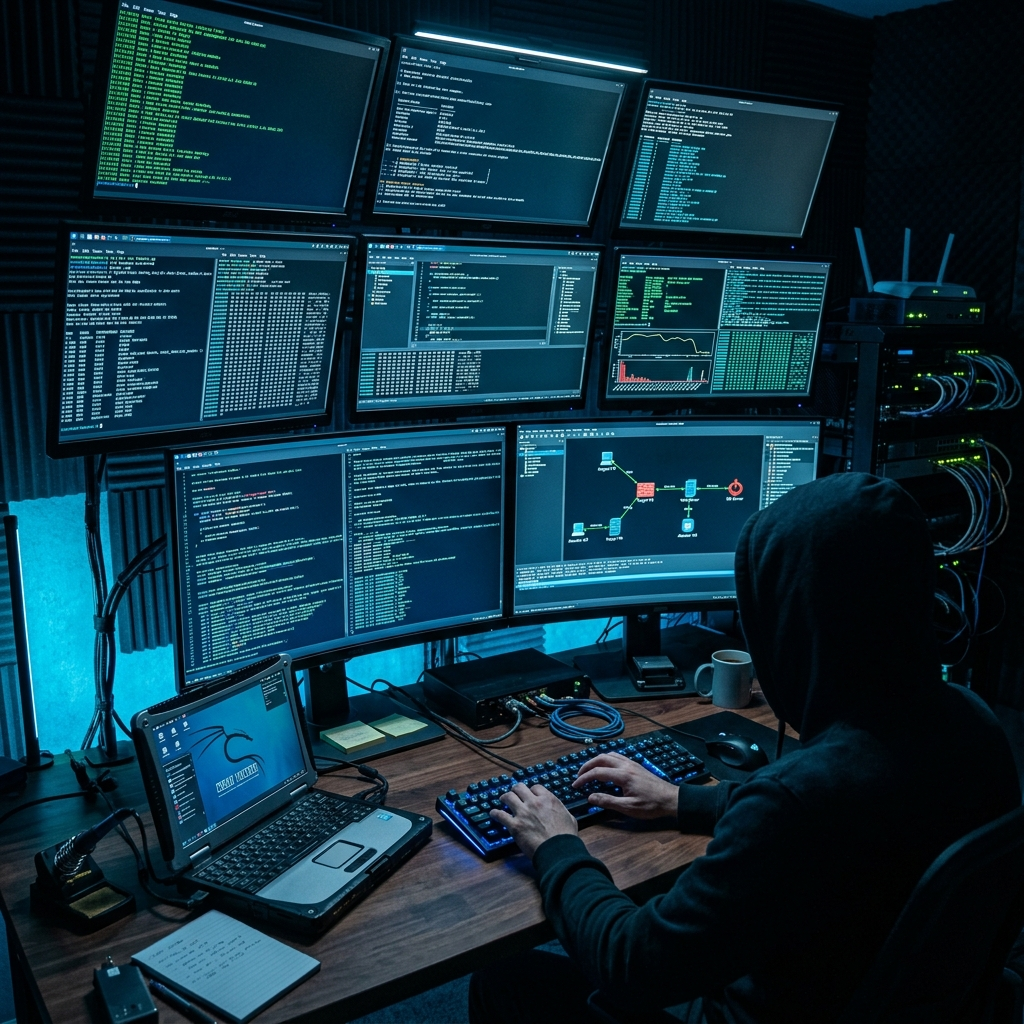
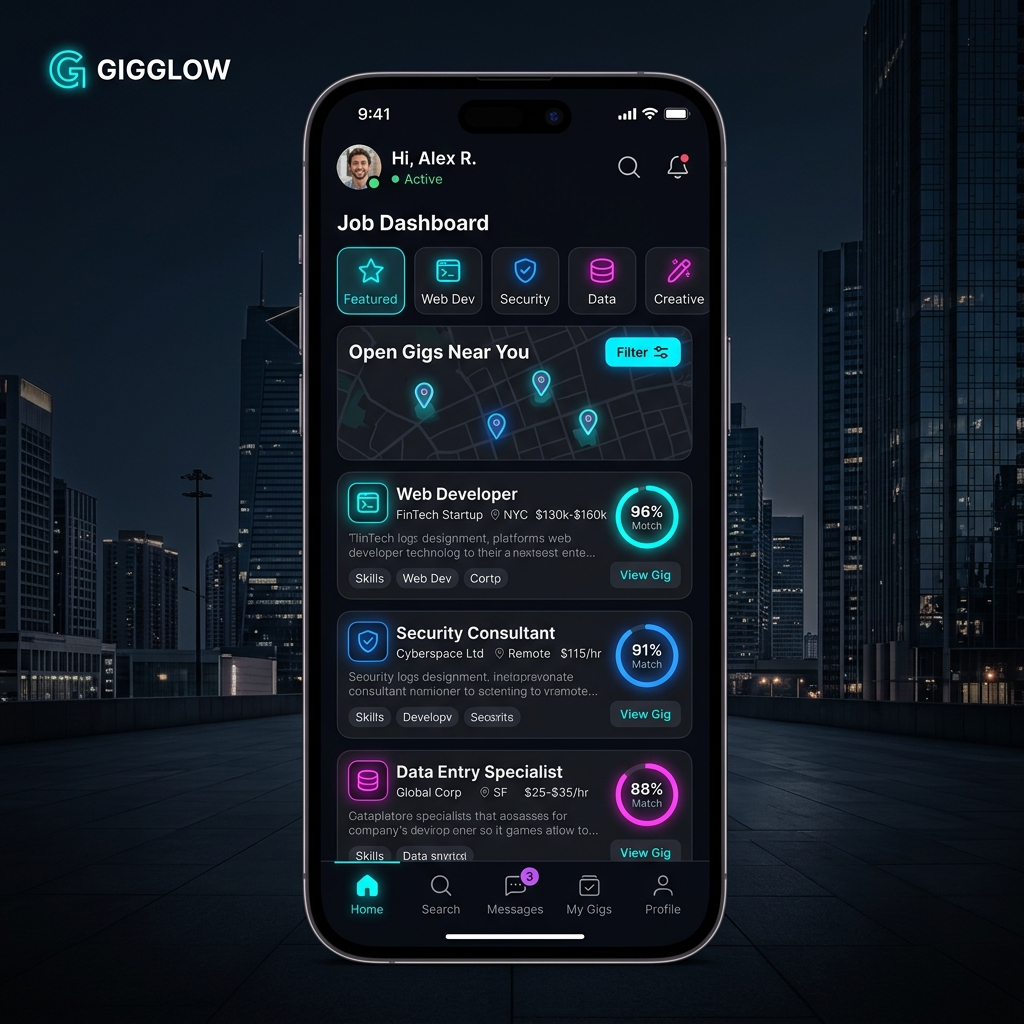
Update portfolio project and certification pictures with premium custom badge and dashboard designs

diff --git a/public/index.html b/public/index.html
@@ -333,7 +333,7 @@
 
     <div class="blog-grid">
       <article class="blog-card reveal spotlight-card">
-        <div class="blog-card-img"><img src="assets/images/blog-3.png" alt="Penetration Testing Certification"></div>
+        <div class="blog-card-img"><img src="assets/images/cert-pentest.png" alt="Penetration Testing Certification"></div>
         <div class="blog-card-body">
           <div class="blog-card-meta">
             <span>Value Added Course</span>
@@ -346,7 +346,7 @@
       </article>
 
       <article class="blog-card reveal reveal-delay-1 spotlight-card">
-        <div class="blog-card-img"><img src="assets/images/blog-2.png" alt="Generative AI Foundations Badge"></div>
+        <div class="blog-card-img"><img src="assets/images/cert-aws-ai.png" alt="Generative AI Foundations Badge"></div>
         <div class="blog-card-body">
           <div class="blog-card-meta">
             <span>Training Badge</span>
@@ -359,7 +359,7 @@
       </article>
 
       <article class="blog-card reveal reveal-delay-2 spotlight-card">
-        <div class="blog-card-img"><img src="assets/images/blog-3.png" alt="Networking Certification"></div>
+        <div class="blog-card-img"><img src="assets/images/cert-networking.png" alt="Networking Certification"></div>
         <div class="blog-card-body">
           <div class="blog-card-meta">
             <span>Academy Course</span>

diff --git a/app/page.jsx b/app/page.jsx
@@ -107,19 +107,19 @@ const certifications = [
   {
     title: "Penetration Testing",
     issuer: "SRM Valliammai Engineering College (Value Added Course)",
-    image: "/assets/images/blog-3.png",
+    image: "/assets/images/cert-pentest.png",
     href: null,
   },
   {
     title: "Generative AI Foundations Training Badge",
     issuer: "AWS Academy",
-    image: "/assets/images/blog-2.png",
+    image: "/assets/images/cert-aws-ai.png",
     href: "https://www.credly.com/badges/62cfddb4-44d3-4c81-b9e9-816869e02a4c",
   },
   {
     title: "Networking",
     issuer: "Cisco Networking Academy",
-    image: "/assets/images/blog-3.png",
+    image: "/assets/images/cert-networking.png",
     href: null,
   },
 ];
